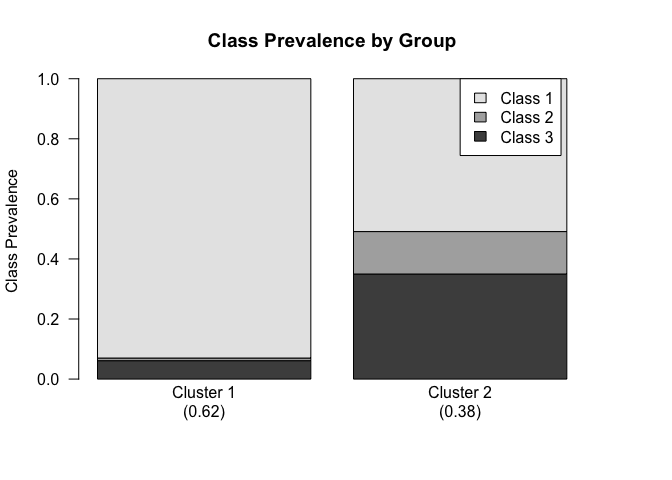
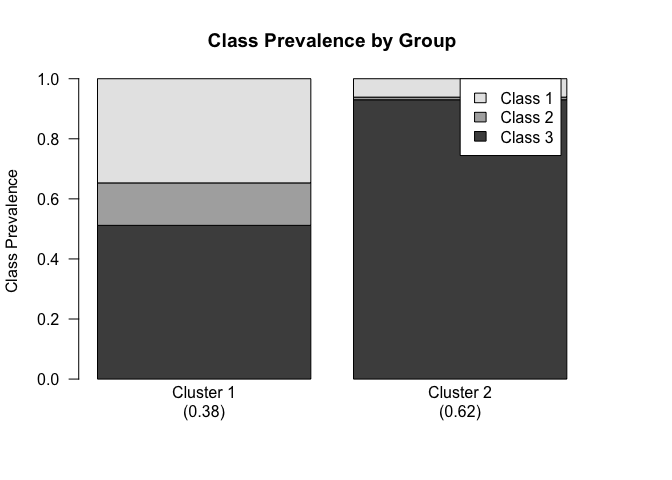
travis

diff --git a/README.md b/README.md
@@ -7,7 +7,8 @@
 
 [![CRAN\_Status\_Badge](https://www.r-pkg.org/badges/version/glca)](http://cran.r-project.org/web/packages/glca)
 [![Downloads](https://cranlogs.r-pkg.org/badges/grand-total/glca?color=blue)](https://r-pkg.org/pkg/glca)
-
+[![Travis build
+status](https://travis-ci.com/kim0sun/glca.svg?branch=master)](https://travis-ci.com/kim0sun/glca)
 <!-- badges: end -->
 
 Fits latent class analysis (LCA) including group variable and
@@ -55,7 +56,7 @@ summary(lca)
 #> 
 #> Mean Prevalence for latent classes for each group:
 #>     Class 1 Class 2 Class 3
-#> ALL 0.46396 0.34467 0.19137
+#> ALL 0.19138 0.46396 0.34467
 #> 
 #> Number of parameters : 20 
 #> 
@@ -76,18 +77,18 @@ summary(lca)
 #> Estimated model parameters :
 #> Gamma :
 #>     Class 1 Class 2 Class 3
-#> ALL   0.464  0.3447  0.1914
+#> ALL  0.1914   0.464  0.3447
 #> 
 #> Rho (Y = 1) :
 #>         DEFECT   HLTH   RAPE   POOR SINGLE NOMORE
-#> Class 1 1.0000 1.0000 1.0000 0.9813 0.9284 0.9657
-#> Class 2 0.8275 0.9453 0.7959 0.0638 0.0390 0.1344
-#> Class 3 0.0466 0.3684 0.0949 0.0000 0.0000 0.0000
+#> Class 1 0.0466 0.3684 0.0949 0.0000 0.0000 0.0000
+#> Class 2 1.0000 1.0000 1.0000 0.9813 0.9284 0.9657
+#> Class 3 0.8275 0.9453 0.7960 0.0638 0.0390 0.1344
 #> Rho (Y = 2) :
 #>         DEFECT   HLTH   RAPE   POOR SINGLE NOMORE
-#> Class 1 0.0000 0.0000 0.0000 0.0187 0.0716 0.0343
-#> Class 2 0.1725 0.0547 0.2041 0.9362 0.9610 0.8656
-#> Class 3 0.9534 0.6316 0.9051 1.0000 1.0000 1.0000
+#> Class 1 0.9534 0.6316 0.9051 1.0000 1.0000 1.0000
+#> Class 2 0.0000 0.0000 0.0000 0.0187 0.0716 0.0343
+#> Class 3 0.1725 0.0547 0.2040 0.9362 0.9610 0.8656
 plot(lca)
 ```
 
@@ -113,10 +114,10 @@ summary(mglca)
 #> 
 #> Mean Prevalence for latent classes for each group:
 #>             Class 1 Class 2 Class 3
-#> <= HS       0.31196 0.16850 0.51954
-#> HIGH SCHOOL 0.20745 0.44393 0.34862
-#> COLLEGE     0.14806 0.55348 0.29846
-#> GRADUATE    0.08375 0.71186 0.20439
+#> <= HS       0.16850 0.51954 0.31196
+#> HIGH SCHOOL 0.44393 0.34862 0.20745
+#> COLLEGE     0.55348 0.29846 0.14806
+#> GRADUATE    0.71186 0.20439 0.08375
 #> 
 #> Number of parameters : 26 
 #> Number of groups : 4 
@@ -138,21 +139,21 @@ summary(mglca)
 #> Estimated model parameters :
 #> Gamma :
 #>             Class 1 Class 2 Class 3
-#> <= HS        0.3120  0.1685  0.5195
-#> HIGH SCHOOL  0.2075  0.4439  0.3486
-#> COLLEGE      0.1481  0.5535  0.2985
-#> GRADUATE     0.0837  0.7119  0.2044
+#> <= HS        0.1685  0.5195  0.3120
+#> HIGH SCHOOL  0.4439  0.3486  0.2075
+#> COLLEGE      0.5535  0.2985  0.1481
+#> GRADUATE     0.7119  0.2044  0.0837
 #> 
 #> Rho (Y = 1) :
 #>         DEFECT   HLTH   RAPE   POOR SINGLE NOMORE
-#> Class 1 0.0507 0.3724 0.0995 0.0000 0.0000 0.0000
-#> Class 2 1.0000 1.0000 1.0000 0.9835 0.9309 0.9681
-#> Class 3 0.8318 0.9470 0.7999 0.0690 0.0433 0.1389
+#> Class 1 1.0000 1.0000 1.0000 0.9835 0.9309 0.9681
+#> Class 2 0.8318 0.9470 0.7999 0.0690 0.0433 0.1389
+#> Class 3 0.0507 0.3724 0.0995 0.0000 0.0000 0.0000
 #> Rho (Y = 2) :
 #>         DEFECT   HLTH   RAPE   POOR SINGLE NOMORE
-#> Class 1 0.9493 0.6276 0.9005 1.0000 1.0000 1.0000
-#> Class 2 0.0000 0.0000 0.0000 0.0165 0.0691 0.0319
-#> Class 3 0.1682 0.0530 0.2001 0.9310 0.9567 0.8611
+#> Class 1 0.0000 0.0000 0.0000 0.0165 0.0691 0.0319
+#> Class 2 0.1682 0.0530 0.2001 0.9310 0.9567 0.8611
+#> Class 3 0.9493 0.6276 0.9005 1.0000 1.0000 1.0000
 plot(mglca)
 ```
 
@@ -259,21 +260,21 @@ summary(mlca)
 #> 
 #> Mean Prevalence for latent clusters:
 #> Cluster 1 Cluster 2 
-#>   0.62012   0.37988 
+#>    0.3793    0.6207 
 #> 
 #> Mean Prevalence for latent classes:
 #>           Class 1 Class 2 Class 3
-#> Cluster 1 0.92994 0.00877 0.06129
-#> Cluster 2 0.50889 0.14125 0.34985
+#> Cluster 1 0.34686 0.14137 0.51177
+#> Cluster 2 0.06129 0.00876 0.92995
 #> 
 #> 
 #> Number of parameters : 20 
 #> Number of groups : 45 
 #> 
-#> log-likelihood : -1962.45 
-#>      G-squared : 773.581 
-#>            AIC : 3964.9 
-#>            BIC : 4074.167
+#> log-likelihood : -1955.487 
+#>      G-squared : 768.5035 
+#>            AIC : 3950.973 
+#>            BIC : 4060.137
 #> 
 #> Response numbering:
 #>         Y = 1 Y = 2
@@ -286,23 +287,23 @@ summary(mlca)
 #> Estimated model parameters :
 #> Delta :
 #> Cluster 1 Cluster 2 
-#>    0.6201    0.3799 
+#>    0.3793    0.6207 
 #> 
 #> Gamma :
 #>           Class 1 Class 2 Class 3
-#> Cluster 1  0.9299  0.0088  0.0613
-#> Cluster 2  0.5089  0.1413  0.3499
+#> Cluster 1  0.3469  0.1414  0.5118
+#> Cluster 2  0.0613  0.0088  0.9300
 #> 
 #> Rho (Y = 1) :
 #>          ECIGT ECIGAR   ESLT EELCIGT EHOOKAH
-#> Class 1 0.0062 0.0043 0.0086  0.0405  0.0057
-#> Class 2 0.9120 0.9755 0.5621  0.9776  0.5345
-#> Class 3 0.3436 0.1970 0.1265  0.7780  0.0439
+#> Class 1 0.3489 0.2006 0.1236  0.7783  0.0443
+#> Class 2 0.9112 0.9750 0.5651  0.9778  0.5364
+#> Class 3 0.0062 0.0043 0.0088  0.0413  0.0057
 #> Rho (Y = 2) :
 #>          ECIGT ECIGAR   ESLT EELCIGT EHOOKAH
-#> Class 1 0.9938 0.9957 0.9914  0.9595  0.9943
-#> Class 2 0.0880 0.0245 0.4379  0.0224  0.4655
-#> Class 3 0.6564 0.8030 0.8735  0.2220  0.9561
+#> Class 1 0.6511 0.7994 0.8764  0.2217  0.9557
+#> Class 2 0.0888 0.0250 0.4349  0.0222  0.4636
+#> Class 3 0.9938 0.9957 0.9912  0.9587  0.9943
 plot(mlca)
 ```
 
@@ -339,8 +340,8 @@ summary(mlcr)
 #> 
 #> Mean Prevalence for latent classes:
 #>           Class 1 Class 2 Class 3
-#> Cluster 1  0.0199 0.08978 0.89032
-#> Cluster 2  0.1175 0.29044 0.59206
+#> Cluster 1 0.89032  0.0199 0.08979
+#> Cluster 2 0.59206  0.1175 0.29045
 #> 
 #> 
 #> Number of parameters : 24 
@@ -367,54 +368,52 @@ summary(mlcr)
 #> Beta (level 1) :
 #> $Cluster1
 #>             Class 1/3 Class 2/3
-#> (Intercept)   -2.6345   -1.0654
-#> SEXFemale      0.6307    0.1159
+#> (Intercept)    1.0654   -1.5691
+#> SEXFemale     -0.1159    0.5148
 #> 
 #> $Cluster2
 #>             Class 1/3 Class 2/3
-#> (Intercept)   -0.8997    0.1671
-#> SEXFemale      0.6307    0.1159
+#> (Intercept)   -0.1671   -1.0668
+#> SEXFemale     -0.1159    0.5148
 #> 
 #> Beta (level 2) :
 #>                    Class 1/3 Class 2/3
-#> SCH_LEVHigh School   -2.5656   -1.9522
+#> SCH_LEVHigh School    1.9522   -0.6134
 #> 
 #> Rho (Y = 1) :
 #>          ECIGT ECIGAR   ESLT EELCIGT EHOOKAH
-#> Class 1 0.8914 0.9657 0.5507  0.9782  0.5049
-#> Class 2 0.3227 0.1696 0.1127  0.7266  0.0394
-#> Class 3 0.0033 0.0034 0.0074  0.0372  0.0056
+#> Class 1 0.0033 0.0034 0.0074  0.0372  0.0056
+#> Class 2 0.8914 0.9657 0.5507  0.9782  0.5049
+#> Class 3 0.3227 0.1696 0.1127  0.7266  0.0394
 #> Rho (Y = 2) :
 #>          ECIGT ECIGAR   ESLT EELCIGT EHOOKAH
-#> Class 1 0.1086 0.0343 0.4493  0.0218  0.4951
-#> Class 2 0.6773 0.8304 0.8873  0.2734  0.9606
-#> Class 3 0.9967 0.9966 0.9926  0.9628  0.9944
+#> Class 1 0.9967 0.9966 0.9926  0.9628  0.9944
+#> Class 2 0.1086 0.0343 0.4493  0.0218  0.4951
+#> Class 3 0.6773 0.8304 0.8873  0.2734  0.9606
 coef(mlcr)
 #> 
 #> Level 1 Coefficients :
 #> 
 #> Class 1 / 3 :
-#>           Odds Ratio Coefficient  Std. Error  t value  Pr(>|t|)   
-#> SEXFemale     1.8788      0.6307      0.2189    2.881   0.00402 **
-#> ---
-#> Signif. codes:  0 '***' 0.001 '**' 0.01 '*' 0.05 '.' 0.1 ' ' 1
+#>           Odds Ratio Coefficient  Std. Error  t value  Pr(>|t|)
+#> SEXFemale     0.8906     -0.1159      0.1716   -0.675       0.5
 #> 
 #> Class 2 / 3 :
-#>           Odds Ratio Coefficient  Std. Error  t value  Pr(>|t|)
-#> SEXFemale     1.1228      0.1159      0.1716    0.675       0.5
+#>           Odds Ratio Coefficient  Std. Error  t value  Pr(>|t|)  
+#> SEXFemale     1.6733      0.5148      0.2180    2.362    0.0183 *
+#> ---
+#> Signif. codes:  0 '***' 0.001 '**' 0.01 '*' 0.05 '.' 0.1 ' ' 1
 #> 
 #> 
 #> Level 2 Coefficients :
 #> 
 #> Class 1 / 3 :
 #>                    Odds Ratio Coefficient  Std. Error  t value  Pr(>|t|)    
-#> SCH_LEVHigh School    0.07687    -2.56558     0.59246    -4.33  1.57e-05 ***
+#> SCH_LEVHigh School     7.0438      1.9522      0.4185    4.665  3.33e-06 ***
 #> ---
 #> Signif. codes:  0 '***' 0.001 '**' 0.01 '*' 0.05 '.' 0.1 ' ' 1
 #> 
 #> Class 2 / 3 :
-#>                    Odds Ratio Coefficient  Std. Error  t value  Pr(>|t|)    
-#> SCH_LEVHigh School     0.1420     -1.9522      0.4185   -4.665  3.33e-06 ***
-#> ---
-#> Signif. codes:  0 '***' 0.001 '**' 0.01 '*' 0.05 '.' 0.1 ' ' 1
+#>                    Odds Ratio Coefficient  Std. Error  t value  Pr(>|t|)
+#> SCH_LEVHigh School     0.5415     -0.6134      0.6587   -0.931     0.352
 ```
